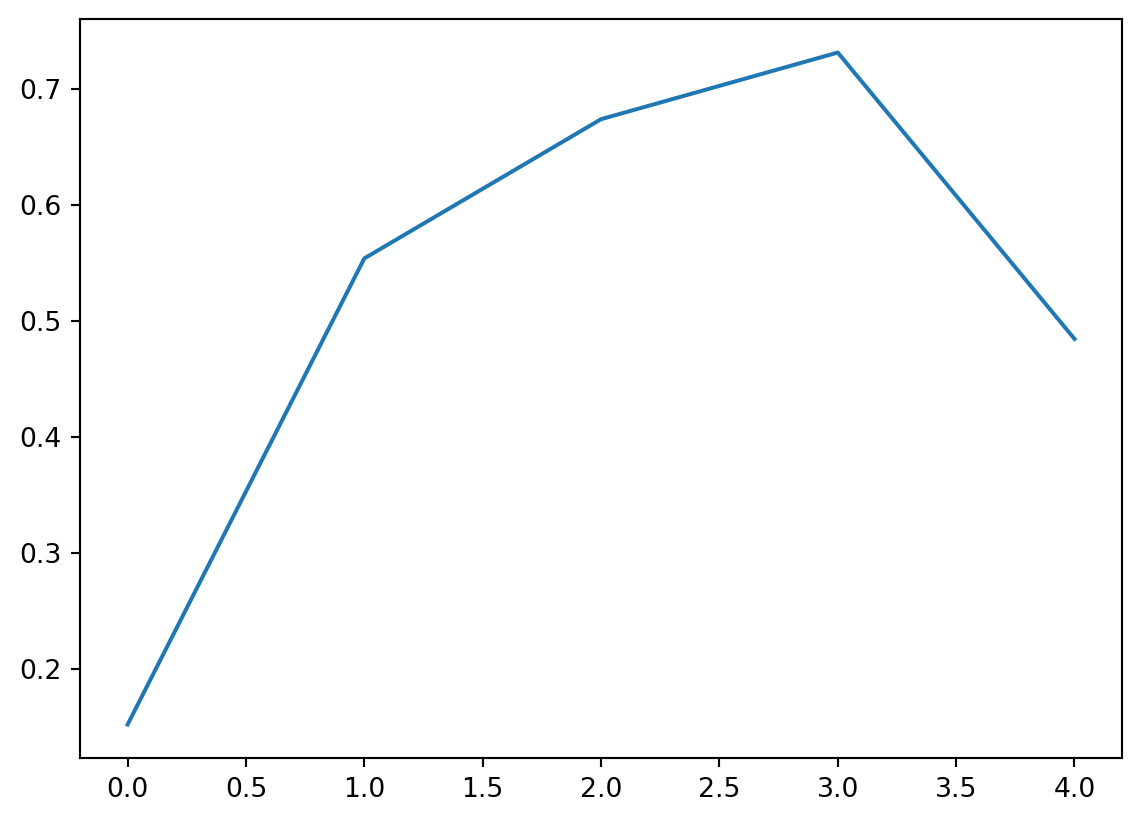
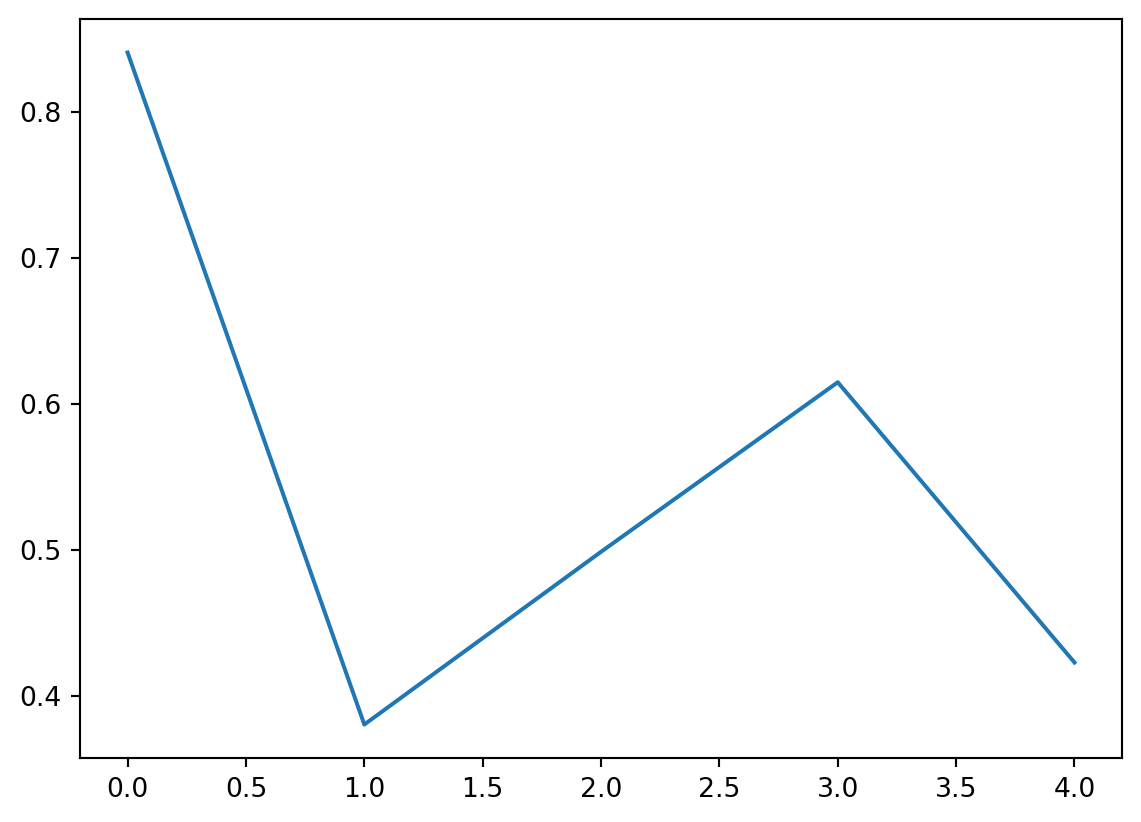
Built site for gh-pages

diff --git a/index.html b/index.html
@@ -217,7 +217,7 @@ window.Quarto = {
 
 <div class="quarto-listing quarto-listing-container-default" id="listing-listing">
 <div class="list quarto-listing-default">
-<div class="quarto-post image-right" data-index="0" data-listing-date-sort="1728478800000" data-listing-file-modified-sort="1728863861019" data-listing-date-modified-sort="NaN" data-listing-reading-time-sort="1" data-listing-word-count-sort="99">
+<div class="quarto-post image-right" data-index="0" data-listing-date-sort="1728478800000" data-listing-file-modified-sort="1728864533289" data-listing-date-modified-sort="NaN" data-listing-reading-time-sort="1" data-listing-word-count-sort="99">
 <div class="thumbnail">
 <p><a href="./example.html" class="no-external"></a></p><a href="./example.html" class="no-external">
 <p class="card-img-top"><img src="example_files/figure-html/cell-7-output-1.png"  class="thumbnail-image card-img"/></p>
@@ -245,7 +245,7 @@ Michael Booth
 </a>
 </div>
 </div>
-<div class="quarto-post image-right" data-index="1" data-listing-date-sort="1728478800000" data-listing-file-modified-sort="1728863856974" data-listing-date-modified-sort="NaN" data-listing-reading-time-sort="1" data-listing-word-count-sort="1">
+<div class="quarto-post image-right" data-index="1" data-listing-date-sort="1728478800000" data-listing-file-modified-sort="1728864553241" data-listing-date-modified-sort="NaN" data-listing-reading-time-sort="1" data-listing-word-count-sort="1">
 <div class="thumbnail">
 <p><a href="./example_links.html" class="no-external"></a></p><a href="./example_links.html" class="no-external">
 <div class="listing-item-img-placeholder card-img-top" >&nbsp;</div>
@@ -273,7 +273,7 @@ Michael Booth
 </a>
 </div>
 </div>
-<div class="quarto-post image-right" data-index="2" data-listing-date-sort="1728392400000" data-listing-file-modified-sort="1728863863919" data-listing-date-modified-sort="NaN" data-listing-reading-time-sort="1" data-listing-word-count-sort="26">
+<div class="quarto-post image-right" data-index="2" data-listing-date-sort="1728392400000" data-listing-file-modified-sort="1728864536320" data-listing-date-modified-sort="NaN" data-listing-reading-time-sort="1" data-listing-word-count-sort="26">
 <div class="thumbnail">
 <p><a href="./example2.html" class="no-external"></a></p><a href="./example2.html" class="no-external">
 <p class="card-img-top"><img src="example2_files/figure-html/cell-3-output-1.png"  class="thumbnail-image card-img"/></p>

diff --git a/example2.html b/example2.html
@@ -229,6 +229,31 @@ pre > code.sourceCode > span > a:first-child::before { text-decoration: underlin
 </div>
 </div>
 </div>
+<div id="cell-4" class="cell" data-execution_count="3">
+<details class="code-fold">
+<summary>Code</summary>
+<div class="sourceCode cell-code" id="cb3"><pre class="sourceCode python code-with-copy"><code class="sourceCode python"><span id="cb3-1"><a href="#cb3-1" aria-hidden="true" tabindex="-1"></a><span class="co"># Make a commenting change to see if re-executes</span></span>
+<span id="cb3-2"><a href="#cb3-2" aria-hidden="true" tabindex="-1"></a></span>
+<span id="cb3-3"><a href="#cb3-3" aria-hidden="true" tabindex="-1"></a><span class="bu">print</span>(<span class="st">"See if re-executes now"</span>)</span></code><button title="Copy to Clipboard" class="code-copy-button"><i class="bi"></i></button></pre></div>
+</details>
+<div class="cell-output cell-output-stdout">
+<pre><code>See if re-executes now</code></pre>
+</div>
+</div>
+<div id="cell-5" class="cell" data-execution_count="4">
+<details class="code-fold">
+<summary>Code</summary>
+<div class="sourceCode cell-code" id="cb5"><pre class="sourceCode python code-with-copy"><code class="sourceCode python"><span id="cb5-1"><a href="#cb5-1" aria-hidden="true" tabindex="-1"></a>plt.plot(random_numbers<span class="op">*</span><span class="dv">2</span>)</span>
+<span id="cb5-2"><a href="#cb5-2" aria-hidden="true" tabindex="-1"></a>plt.show()</span></code><button title="Copy to Clipboard" class="code-copy-button"><i class="bi"></i></button></pre></div>
+</details>
+<div class="cell-output cell-output-display">
+<div>
+<figure class="figure">
+<p><img src="example2_files/figure-html/cell-5-output-1.png" width="571" height="411" class="figure-img"></p>
+</figure>
+</div>
+</div>
+</div>
 
 
 </section>

diff --git a/example.html b/example.html
@@ -289,7 +289,7 @@ pre > code.sourceCode > span > a:first-child::before { text-decoration: underlin
 <span id="cb12-2"><a href="#cb12-2" aria-hidden="true" tabindex="-1"></a>warnings.warn(<span class="st">"This is a warning message"</span>)</span></code><button title="Copy to Clipboard" class="code-copy-button"><i class="bi"></i></button></pre></div>
 </details>
 <div class="cell-output cell-output-stderr">
-<pre><code>/var/folders/pf/662q3gzd6413np78gpd4p9hr0000gn/T/ipykernel_35906/1498169789.py:2: UserWarning: This is a warning message
+<pre><code>/var/folders/pf/662q3gzd6413np78gpd4p9hr0000gn/T/ipykernel_53368/1498169789.py:2: UserWarning: This is a warning message
   warnings.warn("This is a warning message")</code></pre>
 </div>
 </div>
